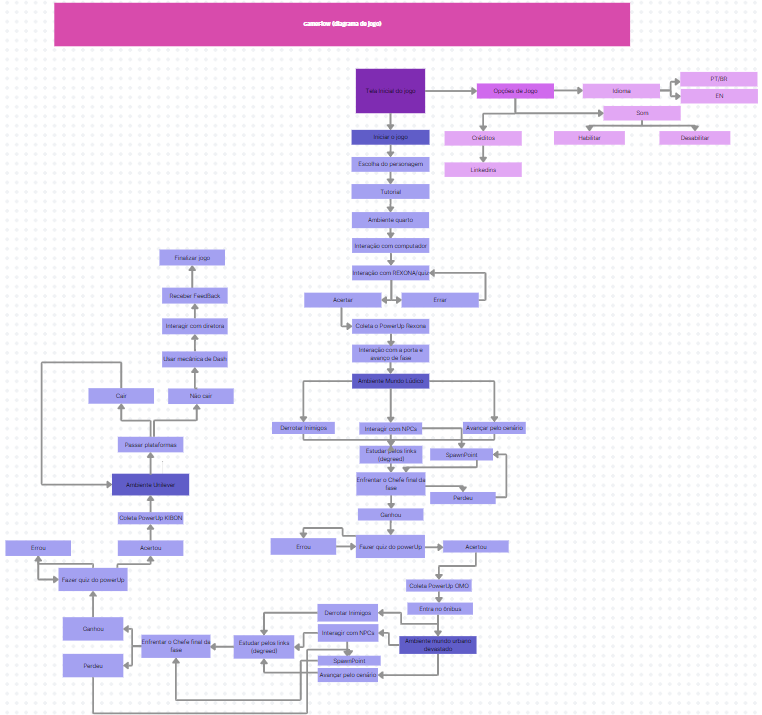
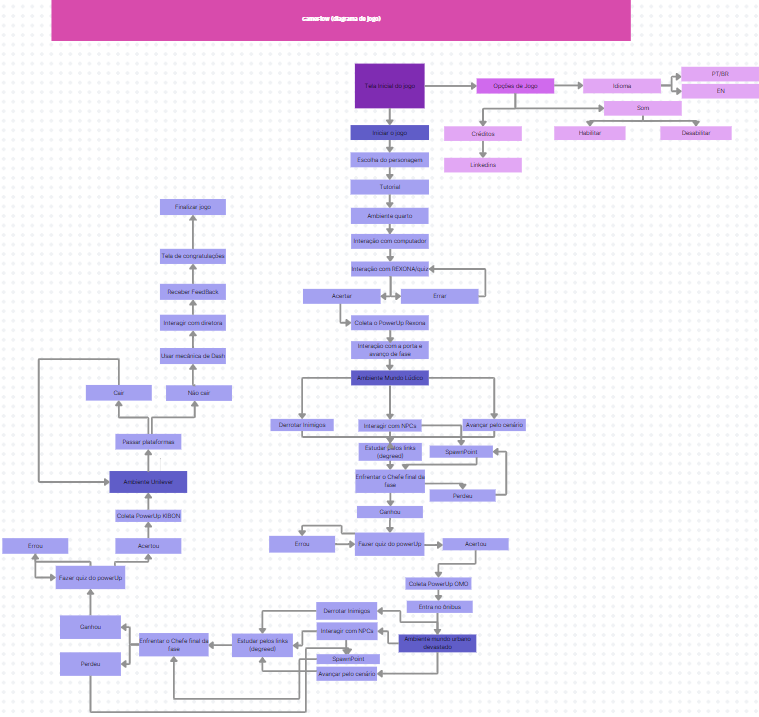
Revisão GDD artefato 5

Changed region(s): [[0.0, 0.0, 1.0, 1.0], [0.2121, 0.2769, 0.303, 0.3077]]

diff --git a/document/gdd.md b/document/gdd.md
@@ -317,13 +317,18 @@ Descrição: Tela simples de título com botão play, idioma atual e som.
 
 ### 3.2.3. Diversidade e Representatividade dos Personagens
 
-&nbsp;&nbsp;&nbsp;&nbsp;O jogo abordará a diversidade e representatividade dos personagens por meio de um sistema de seleção inicial no jogo, no qual o jogador poderá escolher o sprite de personagem com o qual ele se identifica. Tanto para os semblantes masculinos, quanto para os femininos, haveram 2 opções de etnia.
+&nbsp;&nbsp;&nbsp;&nbsp;Diversidade se refere à presença e representação de diferentes características, identidades e experiências entre indivíduos em um determinado contexto. Inclui, mas não se limita a, diferenças de raça, etnia, gênero, idade, religião, deficiência, orientação sexual. Diversidade valoriza a singularidade de cada pessoa, reconhecendo a riqueza que essas diferenças trazem para comunidades, organizações e sociedades como um todo.
+
+&nbsp;&nbsp;&nbsp;&nbsp;Dessa forma, o jogo apresenta a diversidade na seleção de personagens, que oferece uma representação tangível de diferentes gêneros e etnias, reforçando o compromisso do jogo com a inclusividade. A imagem ilustrativa da seleção de personagens exemplifica essa diversidade, proporcionando aos jogadores a oportunidade de escolher avatares que refletem uma variedade de identidades.
 
 <div align="center">
 <sub>Figura 7 - Seleção De Player Imagem</sub>
 <img src="../assets/PlayerSelecter.jpg">
 <sup>Fonte: Material produzido pelos autores (2024)</sup>
 </div>
+
+&nbsp;&nbsp;&nbsp;&nbsp;Com essa integração de personagens variados, o jogo evidencia a importância de possuir variados personagens com o intuito de representar todos, além de representar a representatividade promovida pela própria Unilever, promovendo uma experiência inclusiva e envolvente aos funcionário, e que reflete a sociedade.
+
 
 ## 3.3. Mundo do jogo
 
@@ -440,17 +445,42 @@ Licensas: https://mixkit.co/license/#sfxFree
 
 &nbsp;&nbsp;&nbsp;&nbsp;O jogo então transporta o jogador para o "ambiente mundo urbano devastado" em um ônibus. Neste cenário, assim como no anterior, a progressão se dá por meio da interação NPC de hub de *links*, superação de desafios de plataformas e um encontro com outro NPC do hub de *links*, resultando na luta contra o chefe do segundo nível. Vencer este chefe permite ao jogador realizar outro quiz para obter um novo *power-up*, desbloqueando a habilidade de realizar um *dash*.
 
-&nbsp;&nbsp;&nbsp;&nbsp;No último nível, "ambiente Unilever", enfrenta-se desafios de plataformas que exigem o uso da habilidade de dash. Cair resulta no retorno ao início do nível, mas superar esses desafios leva ao encontro com o NPC da diretora, onde o jogador recebe *feedback* positivo, sinalizando a conclusão do jogo.
+&nbsp;&nbsp;&nbsp;&nbsp;No último nível, "ambiente Unilever", enfrenta-se desafios de plataformas que exigem o uso da habilidade de dash. Cair resulta no retorno ao início do nível, mas superar esses desafios leva ao encontro com o NPC da diretora, onde o jogador recebe *feedback* positivo. Além disso, aparecerá as congratulações, sinalizando a conclusão do jogo.
+
+
 
 &nbsp;&nbsp;&nbsp;&nbsp;Por fim, a combinação de todos os componentes do projeto formam o diagrama de cenas, o qual descreve, de forma cronológica, o fluxo esperado de progressão no jogo. Esse diagrama é fundamental, pois oferece uma visão clara do trajeto que os jogadores devem seguir, dos desafios que enfrentarão e da sequência em que a narrativa se desenrolará. Através dele, conseguimos garantir uma experiência coesa, permitindo que os desenvolvedores visualizem e refinem a jornada do jogador desde o início até a conclusão do jogo.
 
 
 ## 3.6. Regras do jogo
 
-&nbsp;&nbsp;&nbsp;&nbsp;O jogador deve concluir a fase, ganhando *power-ups* e derrotando os inimigos. Além disso, deve derrotar dois *boss*, o Rei desmatamento e o Rei poluição. Ao derrotar cada rei, o jogador deverá responder um quiz para ganhar o *power-up*. Caso ele acerte, vai receber uma bonificação em alguma habilidade (força, alcance, velocidade...).
+&nbsp;&nbsp;&nbsp;&nbsp;As regras são o que descrevrem as ações dos jogadores ao longo do jogo, de forma a direcionar o rumo do jogador. Elas definem o que pode ou o que não pode ser feito, os objetivos a serem alcançados, como o jogo é vencido ou perdido, e quais ações são permitidas ou proibidas. As regras são essenciais para dar estrutura ao jogo, criar desafios, fomentar a competição ou cooperação, e guiar os jogadores através da experiência de jogo.
+
+&nbsp;&nbsp;&nbsp;&nbsp;Movimentação e Controles: Os jogadores se movimentam usando as teclas direcionais. A tecla "Q" é usada para atirar, a tecla "W" para uso do *dash*, e a tecla "E" para interações com objetos e NPCs.
+&nbsp;&nbsp;&nbsp;&nbsp;Progressão e Objetivos: Para avançar no jogo, os jogadores devem completar tarefas específicas em cada cena, incluindo derrotar inimigos, interagir com NPCs, e responder quizzes corretamente. O objetivo final é recuperar todas as marcas roubadas e trazer de volta o equilíbrio da Unilever.
+&nbsp;&nbsp;&nbsp;&nbsp;*Power-ups* e Itens: Ao longo do jogo, os jogadores podem coletar as marcas, que fornecem poderes adicionais. Estes itens são importantes para derrotar os inimigos e para completar os níveis.
+&nbsp;&nbsp;&nbsp;&nbsp;Vidas e Dano: Os jogadores começam com uma determinada quantidade de vida, representada pela *health bar*. O contato com inimigos resulta em perda de vida. Se a vida chegar a zero, o jogador retorna ao último *checkpoint*.
+&nbsp;&nbsp;&nbsp;&nbsp;*Checkpoints*: Existem alguns *checkpoints* ao longo do jogo, sendo eles os NPCs. Ao perder todas as vidas, o jogador renasce no último *checkpoint* ativado.
+
+&nbsp;&nbsp;&nbsp;&nbsp;Em suma, as regras são extremamente importantes para criar a estrutura dentro da qual a experiência de jogo se desenrola. Elas definem os limites e possibilidades, incentivando a criatividade, estratégia, e interação, enquanto garantem que o jogo seja engajante, desafiador, e divertido.
+
 ## 3.7. Mecânicas do jogo (sprint 3)
 
-&nbsp;&nbsp;&nbsp;&nbsp;No nosso jogo de plataforma 2D para computador, o jogador pode utilizar as teclas de seta do teclado para usar as mecânicas de se locomover e pular. Além disso caso o jogador pressione 2 vezes seguidas as teclas para cima o personagem irá dar um pulo duplo. Outra tecla importante para a jogabilidade proposta no nosso game é a tecla E, que usa a mecânica de interação, caso apertada ao lado de um NPC ou *power-up*. Por fim, a tecla Q é responsável pela mecânica de ataque do jogador e a tecla W pela mecânica de movimentação de avanço rápido.
+&nbsp;&nbsp;&nbsp;&nbsp;As mecânicas de um jogo referem-se ao conjunto de regras que regem a interação do jogador com o jogo. Elas são os componentes básicos que permitem que as ações aconteçam de forma coesa e coerente, influenciando diretamente a jogabilidade e experiência do jogador. As mecânicas são essenciais para contruir como o jogo irá funcionar, como os jogadores irão alcançar o objetivo, como vão se movimentar, como vão enfrentar os desafios e como o jogo corresponde às ações dos jogadores.
+
+&nbsp;&nbsp;&nbsp;&nbsp;Nesse jogo, há inúmeras mecânicas que o torna divertido e criativo, sendo elas: movimentação, interação, combate, *quizzes*, *power-ups*. Segue o detalhamento, respectivamente, de cada uma dessas mecânicas abaixo:
+
+&nbsp;&nbsp;&nbsp;&nbsp;Movimentação: Os jogadores controlam um personagem que pode mover-se para a esquerda, direita, realizar pulos e pulos duplos.
+
+&nbsp;&nbsp;&nbsp;&nbsp;Interação: Ao pressionar a tecla "E" perto de objetos ou NPCs, os jogadores podem interagir, recebendo itens, e informações importantes para a progressão do jogo.
+
+&nbsp;&nbsp;&nbsp;&nbsp;Combate: A tecla "Q" permite que os jogadores realizem ataques básicos. Esses ataques são essenciais para derrotar inimigos ao longo do jogo.
+
+&nbsp;&nbsp;&nbsp;&nbsp;*Quizzes*: Em diversos pontos do jogo, os jogadores respondem quizzes que testam seu conhecimento sobre a Unilever. 
+
+&nbsp;&nbsp;&nbsp;&nbsp;*Power-ups*: Itens especiais utilizados para a progressão do jogo. Eles fornecem a capacidade de atirar e utilizar *dash*.
+
+&nbsp;&nbsp;&nbsp;&nbsp;A fusão de todas as mecânicas proporcionam experiências incríveis e personalizadas para os jogadores, de forma que sejam essenciais para construir a jogabilidade, o engajamento, e como interações entre jogador e jogo.
 
 # <a name="c4"></a>4. Desenvolvimento do Jogo
 
@@ -1450,7 +1480,9 @@ Número | Melhorias:
 
 # <a name="c7"></a>7. Referências
 
-&nbsp;&nbsp;&nbsp;&nbsp;Segue a seguir as referências do material utilizado para a produção do Game Desing Document e jogo.
+ &nbsp;&nbsp;&nbsp;&nbsp;Referências são todas as fontes de inspiração utilizadas para moldar o design e a direção criativa de um jogo. Isso abrange uma ampla gama de materiais, como outros jogos, obras de arte, literatura, cinema, e até mesmo teorias científicas, dependendo do foco do jogo.
+
+&nbsp;&nbsp;&nbsp;&nbsp;Segue a seguir as referências do material utilizado para a produção do *Game Desing Document* e do jogo.
 
 
 Minetto, Bianca. Matriz de Riscos (Matriz de Probabilidade e Impacto). Disponível em: <https://ferramentasdaqualidade.org/matriz-de-riscos-matriz-de-probabilidade-e-impacto/>. Acesso em: 22 fev. 2024.
@@ -1461,7 +1493,7 @@ STRATEGYZER. Strategyzer’s Value Proposition Canvas Explained. YouTube, 7 mar.
 Eiko, Júlia. O que é Concept Art?. Disponível em: <https://revospace.com.br/artigo/o-que-e-concept-art/>. Acesso em: 20 fev. 2024.
 
 
-NOIZ, Criatividade ENTENDA TUDO SOBRE A TEORIA DAS CORES. YouTube, 28 set. 2016. Disponível em: <https://www.youtube.com/watch?v=IWTAIUiLJvk>.Acesso em: 2 abr. 2024.
+NOIZ, Criatividade ENTENDA TUDO SOBRE A TEORIA DAS CORES. YouTube, 28 set. 2016. Disponível em: <https://www.youtube.com/watch?v=IWTAIUiLJvk>. Acesso em: 2 abr. 2024.
 
 
 GRIGG, A. Animation Basics in 14 Minutes (6 Big ideas for beginners). YouTube, 6 abr. 2022. Disponível em: <https://www.youtube.com/watch?v=pF--YKCCUMw>. Acesso em: 5 abr. 2024.
